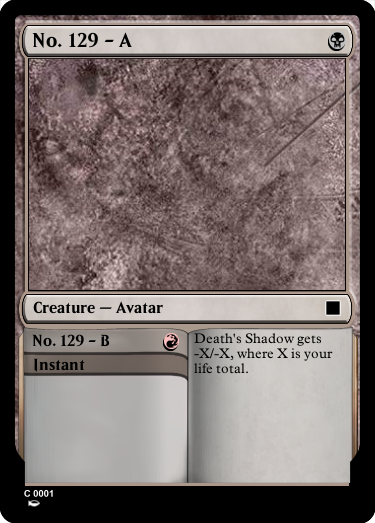
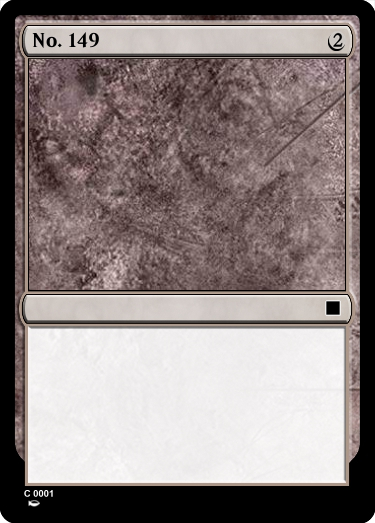
Added a lot of stuff. Everything is good except for weird frame cards now

diff --git a/combine.py b/combine.py
@@ -4,8 +4,6 @@ import re
 from PIL import Image, ImageDraw, ImageFont
 
 def combine(cardOne, cardTwo):
-    print("In combine method")
-
     if os.path.exists('id_counter.txt'):
         with open('id_counter.txt', 'r') as file:
             id = int(file.read().strip())
@@ -96,16 +94,18 @@ standardManaCoord = (346, 31, 17, 18)
 fuseManaCoord1 = (256, 28, 15, 16)
 fuseManaCoord2 = (498, 28, 15, 16)
 MDFCManaCoord = (160, 472, 11, 11)
-adventureManaCoord = (179, 333, 15, 16)
+adventureManaCoord = (180, 333, 14, 15)
 aftermathManaCoord = (476, 34, 17, 18)
 
 flipsideTitleCoord = (27, 473)
 
 
-def draw_text_within_bounding_box(draw, text, fontPath, fontSize, bounding_box):
+def draw_text_within_bounding_box(frame, draw, text, fontPath, fontSize, bounding_box):
     font = ImageFont.truetype(fontPath, fontSize)
     x, y, x2, y2 = bounding_box
     lines = text.split('\n')
+    space_width = draw.textbbox((0, 0), ' ', font)[2] - draw.textbbox((0, 0), ' ', font)[0]
+    pattern = r'(\{.*?\}|[^{}]+)'
     for index, line in enumerate(lines):
         words = line.split()
         wrappedLine = []
@@ -125,12 +125,35 @@ def draw_text_within_bounding_box(draw, text, fontPath, fontSize, bounding_box):
     textHeight = text_bbox[3] - text_bbox[1]
     if textHeight <= (y2 - y):
         print(f"Printed at {fontSize}")
-        draw.text((x, y), "\n".join(lines), font=font, fill="black")
+        current_y = y
+        for line in lines:
+            getLineHeight = draw.textbbox((0, 0), line, font)
+            words = line.split()
+            for index, word in enumerate(words):
+                if re.search(pattern, word):
+                    parsedWord = [match for match in re.findall(pattern, word)]
+                    words[index:index+1] = parsedWord                
+            current_x = x
+            for word in words:
+                text_bbox = draw.textbbox((current_x, current_y), word, font)
+                textWidth = text_bbox[2] - text_bbox[0]
+                if word.startswith("{") and word.endswith("}"):
+                    innerSymbol = word[1:-1].lower().replace("/", "")
+                    symbol = Image.open(f"ManaSymbols/{innerSymbol}.png").resize((fontSize, fontSize))
+                    frame.paste(symbol, (current_x, current_y), symbol)
+                    textWidth = fontSize
+                    print(f"THIS IS OUR WORD ---> {word}")
+                else:        
+                    draw.text((current_x, current_y), word, font=font, fill="black")
+                current_x += textWidth + space_width
+            current_y += getLineHeight[3] -  getLineHeight[1]
+
+        #draw.text((x, y), "\n".join(lines), font=font, fill="black")
         return True
     else:
         if fontSize > 10: #This is the minimum font size that can be adjusted
             print(f"Couldn't fit at {fontSize}. Reducing")
-            return draw_text_within_bounding_box(draw, text, fontPath, fontSize - 1, bounding_box)
+            return draw_text_within_bounding_box(frame, draw, text, fontPath, fontSize - 1, bounding_box)
         else:
             print("Couldn't fit within the bounding box")
             return False
@@ -165,9 +188,6 @@ def drawManaCost(frame, mana_cost, position):
         # Move to the next position
         x += mana_symbol_size[0] + spacing
 
-    # Save or show the modified card image
-    frame.save("modified_card.png")
-
 def getMainType(typeLine):
     if "Planeswalker" in typeLine:
         return "Planeswalker"
@@ -185,16 +205,20 @@ def getMainType(typeLine):
         return "Sorcery"
     else:
         return ""
+  
 
 #Pass the face in if card is multifaced
-#TODO draw mana symbols in text of card
 def createCardImage(card, framePath, titleCoord, typeCoord, textCoord, manaCoord, flipsideTitleCoords = None, card2 = None, title2Coord = None, type2Coord = None, text2Coord = None, manaCoord2 = None):
     frame = Image.open(framePath)
     draw = ImageDraw.Draw(frame)
     draw.text(titleCoord, card["name"], font=titleFont, fill="black")
     drawManaCost(frame, card["mana_cost"], manaCoord)
     draw.text(typeCoord, card["type_line"], font=typeFont, fill="black")
-    itFits = draw_text_within_bounding_box(draw, card["oracle_text"], "Fonts/mplantin.ttf", 14, textCoord)
+    if (card["power"] and card["toughness"]):
+        box = Image.open("ManaSymbols/clpt.png").resize((81, 42))
+        frame.paste(box, (274, 466), box)
+        draw.text((316, 483), f"{card['power']}/{card['toughness']}", font=titleFont, fill="black", align="center", anchor="mm")
+    itFits = draw_text_within_bounding_box(frame, draw, card["oracle_text"], "Fonts/mplantin.ttf", 14, textCoord)
     if flipsideTitleCoords and card2:
         if "Back" in framePath:
             draw.text(flipsideTitleCoords, getMainType(card2["type_line"]), font=flipsideTitleFont, fill="black")
@@ -203,28 +227,27 @@ def createCardImage(card, framePath, titleCoord, typeCoord, textCoord, manaCoord
             draw.text(flipsideTitleCoords, getMainType(card2["type_line"]), font=flipsideTitleFont, fill="white")
             drawManaCost(frame, card2["mana_cost"], MDFCManaCoord)
     if card2 and title2Coord and type2Coord and text2Coord and manaCoord2:
-        print("This card has 2 faces!!!!!!!!!!!!!!!!!!!!!!!!!!!!!!!!!!!!!!")
         if "Aftermath" in framePath:
             rotatedFrame = frame.rotate(90, expand=True)
             draw = ImageDraw.Draw(rotatedFrame)
             draw.text(title2Coord, card2["name"], font=titleFont, fill="black")
             draw.text(type2Coord, card2["type_line"], font=typeFont, fill="black")
-            drawManaCost(frame, card2["mana_cost"], manaCoord2)
-            itFits2 = draw_text_within_bounding_box(draw, card2["oracle_text"], "Fonts/mplantin.ttf", 14, text2Coord)
+            drawManaCost(rotatedFrame, card2["mana_cost"], manaCoord2)
+            itFits2 = draw_text_within_bounding_box(frame, draw, card2["oracle_text"], "Fonts/mplantin.ttf", 14, text2Coord)
             frame = rotatedFrame.rotate(-90, expand=True)
         else:
             if ("Adventure" in framePath):
-                draw.text(title2Coord, card2["name"], font=typeFont, fill="black")
-                draw.text(type2Coord, card2["type_line"], font=typeFont, fill="black")
+                draw.text(title2Coord, card2["name"], font=typeFont, fill="white")
+                draw.text(type2Coord, card2["type_line"], font=typeFont, fill="white")
                 drawManaCost(frame, card2["mana_cost"], manaCoord2)
-                itFits2 = draw_text_within_bounding_box(draw, card2["oracle_text"], "Fonts/mplantin.ttf", 14, text2Coord)
+                itFits2 = draw_text_within_bounding_box(frame, draw, card2["oracle_text"], "Fonts/mplantin.ttf", 14, text2Coord)
             else:
                 draw.text(title2Coord, card2["name"], font=titleFont, fill="black")
                 draw.text(type2Coord, card2["type_line"], font=typeFont, fill="black")
                 drawManaCost(frame, card2["mana_cost"], manaCoord2)
-                itFits2 = draw_text_within_bounding_box(draw, card2["oracle_text"], "Fonts/mplantin.ttf", 14, text2Coord)
+                itFits2 = draw_text_within_bounding_box(frame, draw, card2["oracle_text"], "Fonts/mplantin.ttf", 14, text2Coord)
     #extend frame based on prior frame
-    if ("Fuse" in framePath or "Aftermath" in framePath) and (not itFits or not itFits2):
+    if ("Fuse" in framePath or "Aftermath" in framePath or "Adventure" in framePath) and (not itFits or not itFits2):
         print("Didn't fit. Making mdfc")
         createCardImage(card, "Frames/StandardMDFCFront.png", offsetTitleCoord, standardTypeCoord, standardBodyCoord, standardManaCoord, flipsideTitleCoords=flipsideTitleCoord, card2=card2)
         createCardImage(card2, "Frames/StandardMDFCBack.png", offsetTitleCoord, standardTypeCoord, standardBodyCoord, standardManaCoord, flipsideTitleCoords=flipsideTitleCoord, card2=card)
@@ -239,6 +262,7 @@ def createCardImage(card, framePath, titleCoord, typeCoord, textCoord, manaCoord
         frame.save(f"test/{card["name"]}.png")
 
 def createSingleFaceCardObject(cardOne, cardTwo, id):
+    newName = f"No. {id}"
     newSuperType = ""
     if "Legendary" in cardOne['mainCard'][14] or "Legendary" in cardTwo['mainCard'][14]:
         newSuperType += " Legendary"
@@ -274,16 +298,15 @@ def createSingleFaceCardObject(cardOne, cardTwo, id):
         oracle += reconfigureText
         return {
             "oracle_id": id,
-            "name": f"No. {id}",
+            "name": newName,
             "mana_cost": cardOne['mainCard'][9],
             "cmc": cardOne['mainCard'][4],
             "type_line": f"{newFullTypeLine}",
-            "oracle_text": oracle,
+            "oracle_text": oracle.replace(cardOne['mainCard'][10], newName),
             "power": cardOne['mainCard'][12],
             "toughness": cardOne['mainCard'][13]
         }
     else:
-        print("Not reconfigure")
         cmc = cardOne['mainCard'][4] if cardOne['mainCard'][4] > cardTwo['mainCard'][4] else cardTwo['mainCard'][4]
         manaCost = cardOne['mainCard'][9] if cardOne['mainCard'][4] > cardTwo['mainCard'][4] else cardTwo['mainCard'][9]
         oracle = f"{cardOne['mainCard'][11]}\n{cardTwo['mainCard'][11]}"
@@ -318,17 +341,31 @@ def createSingleFaceCardObject(cardOne, cardTwo, id):
                 
         return {
             "oracle_id": id,
-            "name": f"No. {id}",
+            "name": newName,
             "mana_cost": manaCost,
             "cmc": cmc,
             "type_line": f"{newFullTypeLine}",
-            "oracle_text": oracle,
+            "oracle_text": oracle.replace(cardOne['mainCard'][10], newName),
             "power": power,
             "toughness": toughness
         }
     
-
 def createTwoFaceCardObject(cardOne, cardTwo, id):
+    newName = f"No. {id} - A"
+    newNameTwo = f"No. {id} - B"
+
+    power1 = ""
+    power2 = ""
+    toughness1 = ""
+    toughness2 = ""
+    if cardOne['mainCard'][12]:
+        power1 = cardOne['mainCard'][12]
+    if cardTwo['mainCard'][12]:
+        power2 = cardTwo['mainCard'][12]
+    if cardOne['mainCard'][13]:
+        toughness1 = cardOne['mainCard'][13]
+    if cardTwo['mainCard'][13]:
+        toughness2 = cardTwo['mainCard'][13]
     return {
         "oracle_id": id,
         "name": f"No. {id}",
@@ -339,17 +376,21 @@ def createTwoFaceCardObject(cardOne, cardTwo, id):
         "card_faces": [
             {
                 "object": "card_face",
-                "name": f"No. {id} - A",
+                "name": newName,
                 "mana_cost": cardOne['mainCard'][9],
                 "type_line": cardOne['mainCard'][14],
-                "oracle_text": cardOne['mainCard'][11]
+                "oracle_text": cardOne['mainCard'][11].replace(cardOne['mainCard'][10], newName),
+                "power": power1,
+                "toughness": toughness1
             },
             {
                 "object": "card_face",
-                "name": f"No. {id} - B",
+                "name": newNameTwo,
                 "mana_cost": cardTwo['mainCard'][9],
                 "type_line": cardTwo['mainCard'][14],
-                "oracle_text": cardTwo['mainCard'][11]
+                "oracle_text": cardTwo['mainCard'][11].replace(cardTwo['mainCard'][10], newNameTwo),
+                "power": power2,
+                "toughness": toughness2
             }
         ]
     }
@@ -359,7 +400,6 @@ def normalNormal(cardOne, cardTwo, id):
     typeLineTwo = cardTwo['mainCard'][14]
     if ('Instant' in typeLineOne and 'Instant' in typeLineTwo) or ('Sorcery' in typeLineOne and 'Sorcery' in typeLineTwo):
         card = createTwoFaceCardObject(cardOne, cardTwo, id)
-        #def createCardImage(card, framePath, titleCoord, typeCoord, textCoord, manaCoord, flipsideTitleCoords = None, card2 = None, title2Coord = None, type2Coord = None, text2Coord = None, manaCoord2 = None):
         createCardImage(card["card_faces"][0], "Frames/Fuse.png", fuseTitleCoord1, fuseTypeCoord1, fuseBodyCoord1, fuseManaCoord1, card2 = card["card_faces"][1], title2Coord=fuseTitleCoord2, type2Coord=fuseTypeCoord2, text2Coord=fuseBodyCoord2, manaCoord2=fuseManaCoord2 )
     elif ('Instant' in typeLineOne and 'Sorcery' in typeLineTwo) or ('Sorcery' in typeLineOne and 'Instant' in typeLineTwo):
         oracle_text_1 = cardOne['mainCard'][11]
@@ -372,11 +412,12 @@ def normalNormal(cardOne, cardTwo, id):
     elif 'Instant' in typeLineOne or 'Instant' in typeLineTwo or 'Sorcery' in typeLineOne or 'Sorcery' in typeLineTwo:
         if ('Instant' in typeLineOne or 'Sorcery' in typeLineOne):
             cardOne, cardTwo = cardTwo, cardOne
-        print(f"card one -> {cardOne}")
         card = createTwoFaceCardObject(cardOne, cardTwo, id)
         createCardImage(card["card_faces"][0], "Frames/Adventure.png", standardTitleCoord, standardTypeCoord, adventureBodyCoord1, standardManaCoord, card2=card["card_faces"][1], title2Coord=adventureTitleCoord, type2Coord=adventureTypeCoord, text2Coord=adventureBodyCoord2, manaCoord2=adventureManaCoord)
     elif ('Land' in typeLineOne or 'Land' in typeLineTwo) or ("X" in cardOne['mainCard'][9] or "X" in cardTwo['mainCard'][9]) or ("X" in cardOne['mainCard'][12] or "X" in cardOne['mainCard'][13] or "X" in cardTwo['mainCard'][12] or "X" in cardTwo['mainCard'][13]):
-        print()#TODO MDFC
+        card = createTwoFaceCardObject(cardOne, cardTwo, id)
+        createCardImage(card["card_faces"][0], "Frames/StandardMDFCFront.png", offsetTitleCoord, standardTypeCoord, standardBodyCoord, standardManaCoord, flipsideTitleCoords=flipsideTitleCoord, card2=card["card_faces"][1])
+        createCardImage(card["card_faces"][1], "Frames/StandardMDFCBack.png", offsetTitleCoord, standardTypeCoord, standardBodyCoord, standardManaCoord, flipsideTitleCoords=flipsideTitleCoord, card2=card["card_faces"][0])
     else:
         card = createSingleFaceCardObject(cardOne, cardTwo, id)
         createCardImage(card, "Frames/Standard.png", standardTitleCoord, standardTypeCoord, standardBodyCoord, standardManaCoord)
